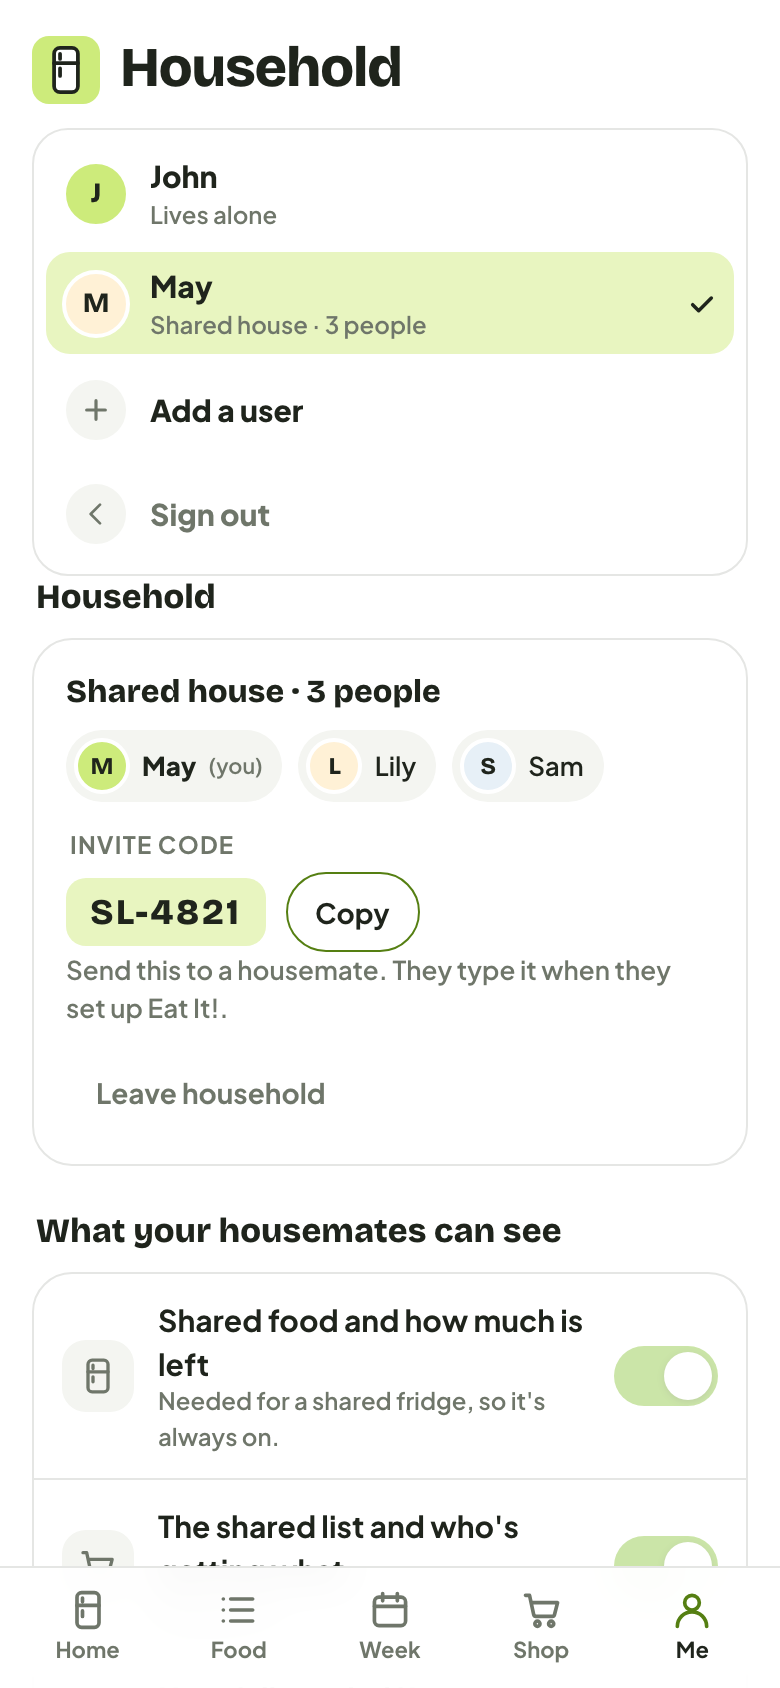
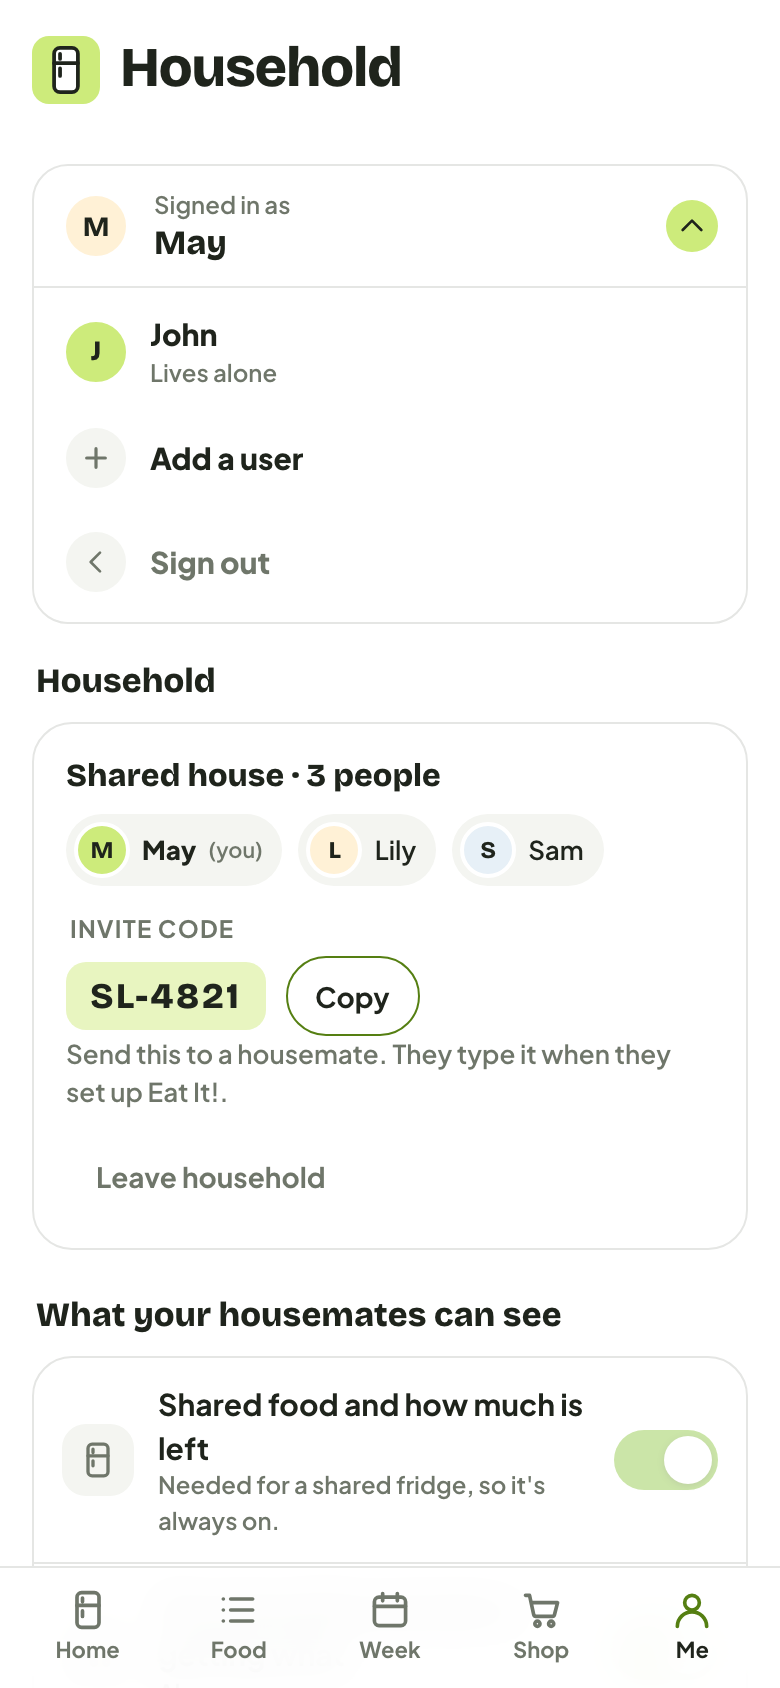
Phone: user switcher folds into a "Signed in as" card
On the Me tab the full user list (John, May, Add a user, Sign out) was always
laid out. It is now one small card showing who is signed in; tapping it opens
the other users, Add a user and Sign out in place.

Code written with Claude Code (AI-assisted) and reviewed by Jiakuo.

diff --git a/app/js/views/people.js b/app/js/views/people.js
@@ -25,12 +25,26 @@ export function signInPage() {
 }
 
 // List of users with the current one ticked, plus Add a user and Sign out.
-export function userList(app, { compact = false } = {}) {
+// others: leave the current user out (the card above already shows them).
+export function userList(app, { compact = false, others = false } = {}) {
   const cur = app.store.persona.id;
   const users = listUsers();
   return `<div class="user-list${compact ? ' compact' : ''}" role="menu" aria-label="Switch user">
-    ${users.map((u, i) => `<button class="user-row${u.id === cur ? ' on' : ''}" role="menuitemradio" aria-checked="${u.id === cur}" data-act="user" data-arg="${esc(u.id)}"><span class="avatar av-${i % 3}">${esc(u.initial)}</span><span class="ur-main"><b>${esc(u.name)}</b><small>${esc(about(u))}</small></span>${u.id === cur ? ICON.check({ size: 16, stroke: 2.6 }) : ''}</button>`).join('')}
+    ${users.map((u, i) => (others && u.id === cur ? '' : `<button class="user-row${u.id === cur ? ' on' : ''}" role="menuitemradio" aria-checked="${u.id === cur}" data-act="user" data-arg="${esc(u.id)}"><span class="avatar av-${i % 3}">${esc(u.initial)}</span><span class="ur-main"><b>${esc(u.name)}</b><small>${esc(about(u))}</small></span>${u.id === cur ? ICON.check({ size: 16, stroke: 2.6 }) : ''}</button>`)).join('')}
     <button class="user-row" role="menuitem" data-act="user-add"><span class="avatar add-av">${ICON.plus({ size: 16, stroke: 2.4 })}</span><span class="ur-main"><b>Add a user</b></span></button>
     <button class="user-row quiet" role="menuitem" data-act="sign-out"><span class="avatar add-av">${ICON.back({ size: 16 })}</span><span class="ur-main"><b>Sign out</b></span></button>
+  </div>`;
+}
+
+// Phone: one small card with who is signed in; tap it to switch user, add one or sign out.
+export function userCard(app) {
+  const cur = app.store.persona.id;
+  const users = listUsers();
+  const i = Math.max(0, users.findIndex((u) => u.id === cur));
+  const u = users[i] || { name: app.store.persona.name, initial: (app.store.persona.name || '?')[0] };
+  const open = !!app.ui.userMenu;
+  return `<div class="me-card${open ? ' open' : ''}">
+    <button class="me-head" data-act="user-menu" aria-expanded="${open}"><span class="avatar av-${i % 3}">${esc(u.initial)}</span><span class="ur-main"><small>Signed in as</small><b>${esc(app.store.state.profile.name || u.name)}</b></span><span class="chev" aria-hidden="true">${ICON.next({ size: 16 })}</span></button>
+    ${open ? userList(app, { others: true }) : ''}
   </div>`;
 }

diff --git a/app/styles.css b/app/styles.css
@@ -429,6 +429,14 @@ input[type=checkbox] { width: 20px; height: 20px; accent-color: var(--leaf-deep)
 .user-row:hover { background: var(--mist); }
 .user-row.on { background: var(--leaf-soft); }
 .user-row.quiet { color: var(--stone); }
+.me-card { border: 1.5px solid var(--line); border-radius: 18px; background: var(--white); }
+.household > .phone-only { margin-bottom: 18px; }
+.me-head { display: flex; align-items: center; gap: 12px; width: 100%; min-height: 60px; padding: 10px 14px; border: 0; background: none; color: var(--ink); text-align: left; cursor: pointer; }
+.me-head .ur-main { flex: 1; display: flex; flex-direction: column; min-width: 0; }
+.me-head small { font-size: 12px; color: var(--stone); }
+.me-head b { font: 800 17px var(--font-title); }
+.me-card.open .chev { transform: rotate(-90deg); background: var(--leaf); color: var(--ink); }
+.me-card .user-list { border: 0; border-top: 1.5px solid var(--line); border-radius: 0 0 18px 18px; padding: 6px; }
 .ur-main { flex: 1; min-width: 0; display: flex; flex-direction: column; }
 .ur-main small { color: var(--stone); font-size: 12px; }
 .thinking { display: flex; align-items: center; gap: 4px; color: var(--stone); font: 700 14px var(--font-body); animation: breathe 1.2s ease-in-out infinite alternate; }

diff --git a/app/js/views/household.js b/app/js/views/household.js
@@ -4,7 +4,7 @@
 import { ICON, placeIcon, wordmark } from '../icons.js';
 import { esc, pageHead, secHead, toggle, aiBadge } from '../ui.js';
 import { phoneTitle } from './parts.js';
-import { userList } from './people.js';
+import { userCard } from './people.js';
 
 const KIND = { cold: 'Cold (fridge)', frozen: 'Frozen (freezer)', room: 'Room temperature' };
 
@@ -38,7 +38,7 @@ export function householdPage(app) {
   return `<div class="page household">
     ${phoneTitle(app, 'Household')}
     <div class="desk-only">${pageHead('Household & settings', `${esc(name)}'s household`, esc(s.house?.name || 'Lives alone'))}</div>
-    <section class="phone-only">${userList(app)}</section>
+    <section class="phone-only">${userCard(app)}</section>
     <div class="cols2">
       <div class="stack">
         <section>${secHead('Household')}${house}</section>

diff --git a/app/README.md b/app/README.md
@@ -113,7 +113,7 @@ AI 把这句话对上家里有的东西。说了具体数量的（"two tomatoes"
 ## 用户
 
 - App 自带两个用户 **John**（一个人住，有冷冻室）和 **May**（三人合租，没有冷冻室）。第一次打开默认是 May。两个人各有各的冰箱、周历、清单和设置。
-- 电脑上点左下角的当前用户，手机上点 **Me**，可以切换用户、添加新用户（从空冰箱开始设置）、退出。退出后是 "Who's using Eat It!?" 选人页面。
+- 电脑上点左下角的当前用户；手机上点 **Me**，再点最上面的 "Signed in as" 小卡片展开。展开后可以切换用户、添加新用户（从空冰箱开始设置）、退出。退出后是 "Who's using Eat It!?" 选人页面。
 - 地址加 `?user=john` 可以直接打开某个用户。没有密码，这是原型。
 - John 和 May 的起始冰箱按画布写成，以每人第一次被打开的那天为第一天，之后用真实日期，东西会照常过期。Household 页的 **Start over** 回到起始状态，日期从当天重新算。
 
